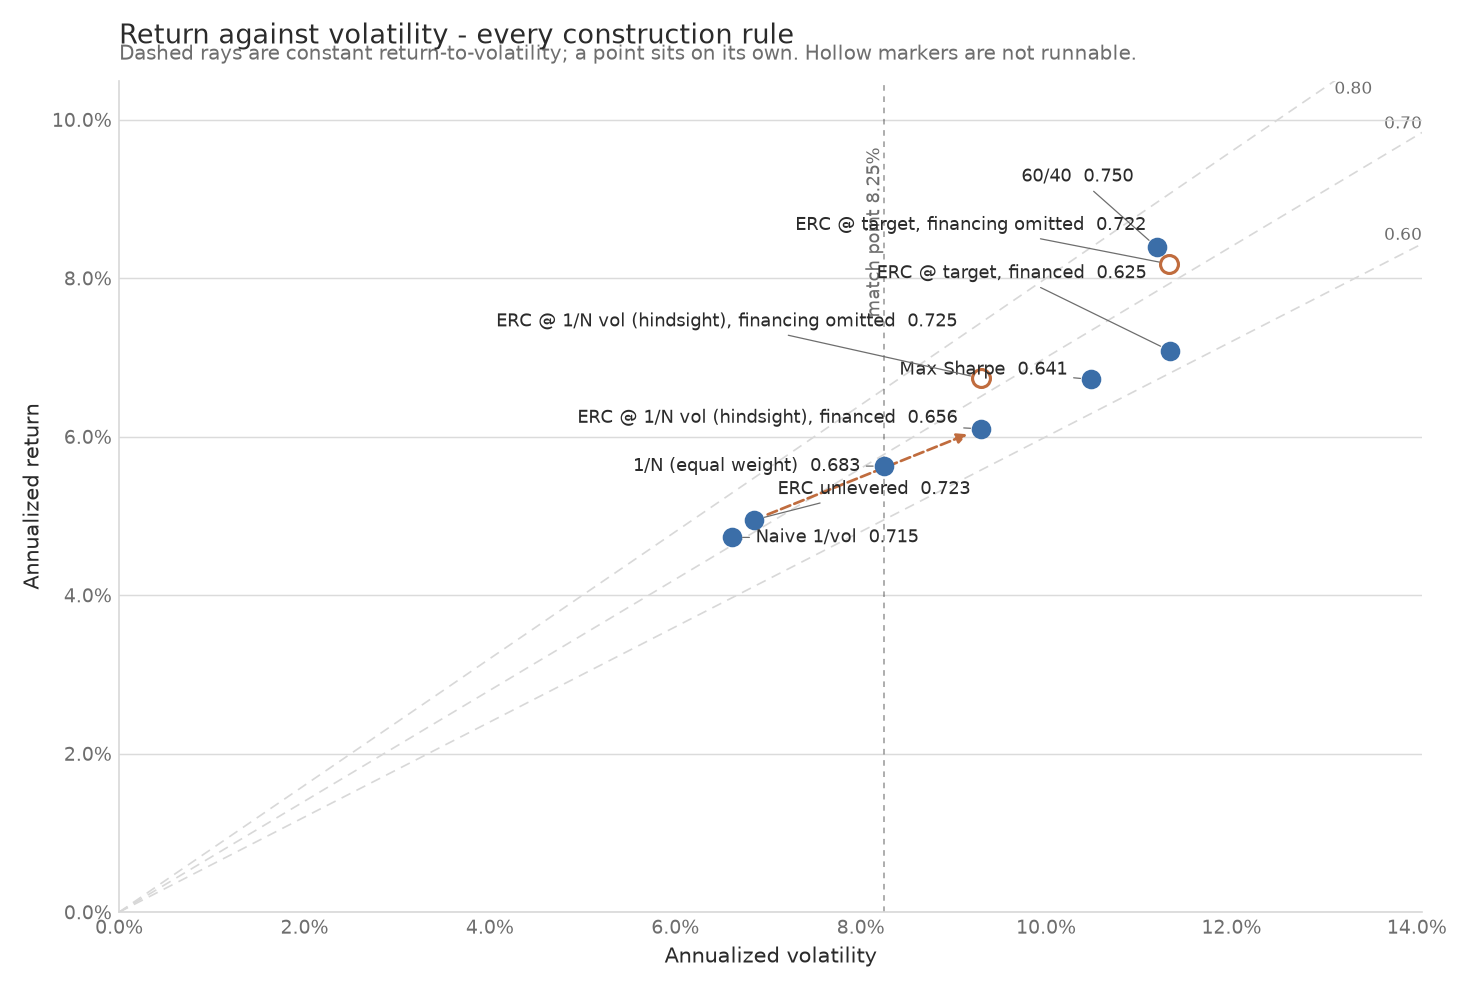
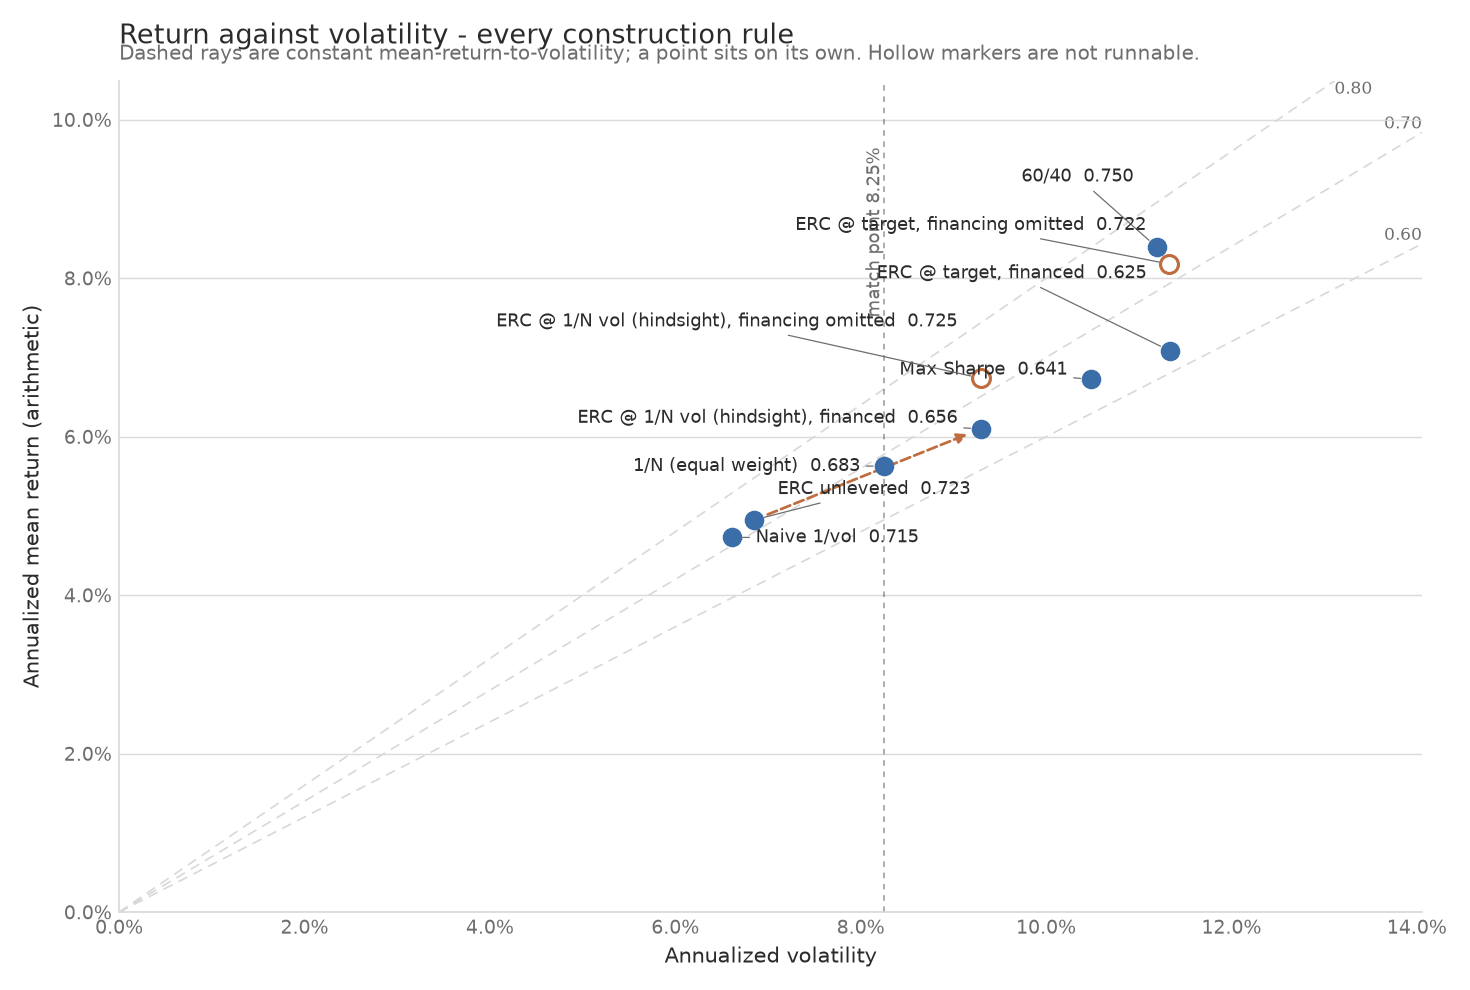
Label the plane chart's y-axis as the arithmetic mean return
The axis already plotted ratio x volatility (the arithmetic mean), so each
point sits on its own iso-ratio ray, but it was labelled "Annualized
return" and the local variable was called cagrs. Both now say mean, and the
subtitle calls the rays constant mean-return-to-volatility.

reports/return_vol_plane.png is redrawn from the saved
reports/rule_comparison.csv (same 2026-11-06 run, no re-pull); only the
labels change.

Changed region(s): [[0.2755, 0.0303, 0.8265, 0.0606], [0.0, 0.303, 0.0306, 0.697]]

diff --git a/src/viz.py b/src/viz.py
@@ -779,13 +779,13 @@ def plot_return_vol_plane(
     # ratio * volatility == mean(excess) * periods_per_year, i.e. the annualized
     # arithmetic return, recovered rather than recomputed so the two cannot drift.
     ratios = summary["sharpe_ratio"].astype("float64")
-    cagrs = ratios * vols
+    means = ratios * vols
 
     figure, ax = _new_figure(figsize=(9.8, 6.6))
 
     x_max = float(max(vols.max(), match_vol or 0.0)) * 1.24
-    y_min = min(0.0, float(cagrs.min()) * 1.25)
-    y_max = float(cagrs.max()) * 1.25
+    y_min = min(0.0, float(means.min()) * 1.25)
+    y_max = float(means.max()) * 1.25
 
     # Iso-ratio rays through the origin, at round ratios bracketing the data,
     # each labelled where it leaves the axes rather than in a legend -- a legend
@@ -823,7 +823,7 @@ def plot_return_vol_plane(
         if start in summary.index and end in summary.index:
             ax.annotate(
                 "",
-                xy=(vols[end], cagrs[end]), xytext=(vols[start], cagrs[start]),
+                xy=(vols[end], means[end]), xytext=(vols[start], means[start]),
                 arrowprops={"arrowstyle": "-|>", "color": PALETTE[1],
                             "linewidth": 1.3, "shrinkA": 7, "shrinkB": 7,
                             "linestyle": "--"},
@@ -832,13 +832,13 @@ def plot_return_vol_plane(
     for name in summary.index:
         hollow = name in counterfactual
         ax.scatter(
-            vols[name], cagrs[name], s=74, zorder=3,
+            vols[name], means[name], s=74, zorder=3,
             facecolor="white" if hollow else PALETTE[0],
             edgecolor=PALETTE[1] if hollow else PALETTE[0],
             linewidth=1.5 if hollow else 0.8,
         )
 
-    _style_axes(ax, ylabel="Annualized return", xlabel="Annualized volatility")
+    _style_axes(ax, ylabel="Annualized mean return (arithmetic)", xlabel="Annualized volatility")
     ax.set_xlim(0.0, x_max)
     ax.set_ylim(y_min, y_max)
 
@@ -849,13 +849,13 @@ def plot_return_vol_plane(
     # a free vertical slot and joined to its marker by a hairline, which keeps
     # the marker where the data puts it and moves only the text.
     placements = _spread_labels(
-        ax, [(float(vols[n]), float(cagrs[n])) for n in summary.index],
+        ax, [(float(vols[n]), float(means[n])) for n in summary.index],
         (0.0, x_max), (y_min, y_max),
     )
     for name, (label_x, label_y, align) in zip(summary.index, placements):
         ax.annotate(
             f"{name}  {ratios[name]:.3f}",
-            xy=(vols[name], cagrs[name]), xytext=(label_x, label_y), xycoords="data",
+            xy=(vols[name], means[name]), xytext=(label_x, label_y), xycoords="data",
             textcoords="data", color=INK, fontsize=8.5, va="center", ha=align,
             zorder=4,
             arrowprops={"arrowstyle": "-", "color": MUTED, "linewidth": 0.6,
@@ -866,7 +866,7 @@ def plot_return_vol_plane(
     _title(
         ax,
         title or "Return against volatility - every construction rule",
-        "Dashed rays are constant return-to-volatility; a point sits on its own. "
+        "Dashed rays are constant mean-return-to-volatility; a point sits on its own. "
         "Hollow markers are not runnable.",
     )
     return _save(figure, path or REPORTS_DIR / "return_vol_plane.png")
